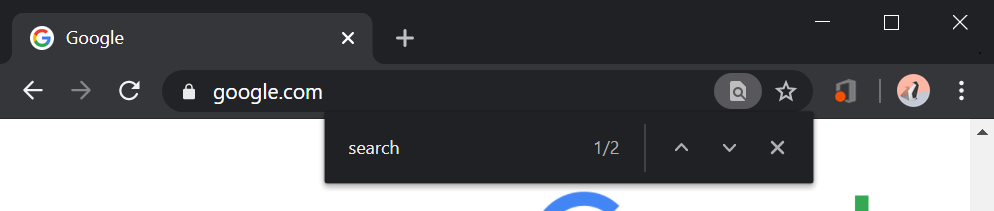
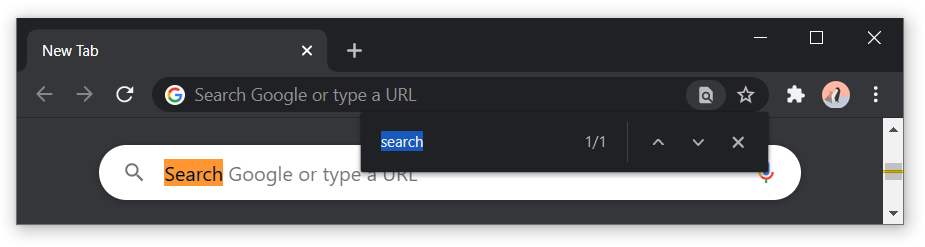
[Window Controls Overlay] Update screenshots and use "geometrychange" event (#351)
This change updates screenshots to show the window's drop shadow so that it's easier to visualize the window controls overlay.

It also changes the resize event to a `geometrychange` event on `navigator.windowControlsOverlay`

diff --git a/TitleBarCustomization/explainer.md b/TitleBarCustomization/explainer.md
@@ -58,7 +58,7 @@ Popular streaming music service Spotify is also built on Electron and they use t
 ### Microsoft Teams
 Workplace collaboration and communication tool Microsoft Teams, also based on Electron for portability, customize the title bar in a similar fashion to Spotify, providing user information, a search and command bar and their own back/forward in-app navigation controls. 
 
-![Microsoft Teams title bar on Mac](MSTeamsMac.png)
+![Microsoft Teams title bar on Mac](MSTeams.png)
 
 ## Problem to solve: Installed desktop web apps title bar area is system reserved
 
@@ -99,7 +99,7 @@ The window controls overlay ensures users can minimize, maximize or restore, and
 
 ![Window controls overlay on an empty web app](WindowControlsOverlay.png)
 
-Additionally, there are two scenarios where other content will appear in the window controls overlay. When these show or hide, the overlay will resize to fit, and a `resize` event will be fired on the `window` object. 
+Additionally, there are two scenarios where other content will appear in the window controls overlay. When these show or hide, the overlay will resize to fit, and a `geometrychange` event will be fired on the `navigator.windowControlsOverlay` object. 
 - When an installed web app is launched, the origin of the page will display to the left of the three-dot button for a few seconds, then disappear.
 - If a user interacts with an extension via the "Settings and more" menu, the icon of the extension will appear in the overlay to the left of the three-dot button. After clicking out of the modal dialog, the icon is removed from the overlay.
 
@@ -140,7 +140,7 @@ To provide the visibility and bounding rectangle of the overlay, this explainer 
 
 For privacy, the `windowControlsOverlay` will not be accessible to iframes inside of a webpage. See [Privacy Considerations](#privacy-considerations) below
 
-Whenever the overlay is resized, a `resize` event will be fired on the `window` object to notify the client that it should recalculate the layout based on the new bounding rect of the overlay. 
+Whenever the overlay is resized, a `geometrychange` event will be fired on the `navigator.windowControlsOverlay` object to notify the client that it should recalculate the layout based on the new bounding rect of the overlay. 
 
 #### CSS Environment Variables
 Although it's possible to layout the content of the title bar and web page with just the JavaScript APIs provided above, they are not as responsive as a CSS solution. This is problematic either when the overlay resizes to accommodate the origin text or a new extension icon populates the overlay, or when the window resizes.
@@ -169,7 +169,7 @@ The coordinate system will not be affected by the overlay, although content my b
 #### Omnibox-anchored Dialogs
 Dialogs like print `[Ctrl+P]` and find in page `[Ctrl + F]` are typically anchored to the omnibox. 
 
-![Search in a standard Chromisum window](searchBrowser.png)
+![Search in a standard Chromium window](searchBrowser.png)
 
 With the omnibox hidden, installed web apps anchor these elements to an icon to the left of the three-dot "Settings and more" button. To maintain consistency across all installed web apps, the window controls overlay will use this pattern as well.
 
